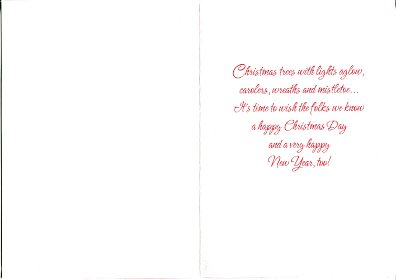
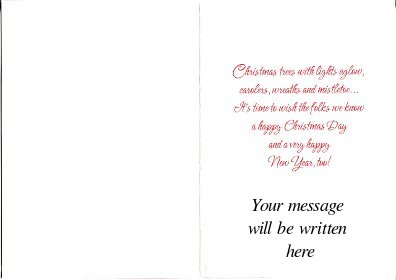
Added "Your Message Here" text to inside previews and link to larger clean inside look.

Changed region(s): [[0.6061, 0.7143, 0.8788, 0.8571], [0.7273, 0.8857, 0.8182, 0.9143]]

diff --git a/stylesheets/greeting-personalise.css b/stylesheets/greeting-personalise.css
@@ -5,4 +5,5 @@ textarea#message {
 
 img.inside-preview {
 	border: 1px solid #ccc;
+	cursor: url(images/zoom_32x32.png), auto;
 }

diff --git a/personalise.php b/personalise.php
@@ -55,7 +55,9 @@ require_once('Database.php');
 		<div class="two-thirds column">
 			<h3>Step Two: Personalise Your Card</h3>
 			<p>
-				<img class="inside-preview" src="images/card<?= $_GET['card'] ?>_inside_280.jpg" />
+				<a href="images/card<?= $_GET['card'] ?>_inside_500.jpg">
+					<img class="inside-preview" src="images/card<?= $_GET['card'] ?>_inside_280.jpg" />
+				</a>
 			</p>
 			<form method="post" action="process.php">
 				<input type="hidden" name="card" value="<?= $_GET['card'] ?>" id="card" />
